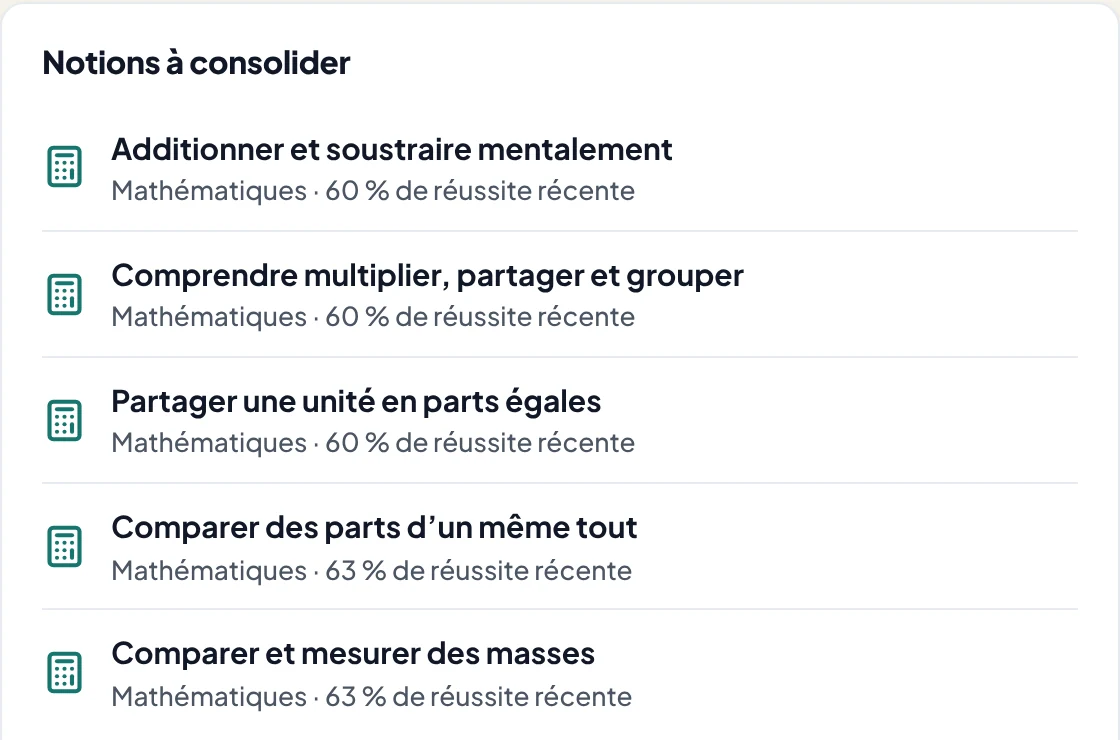
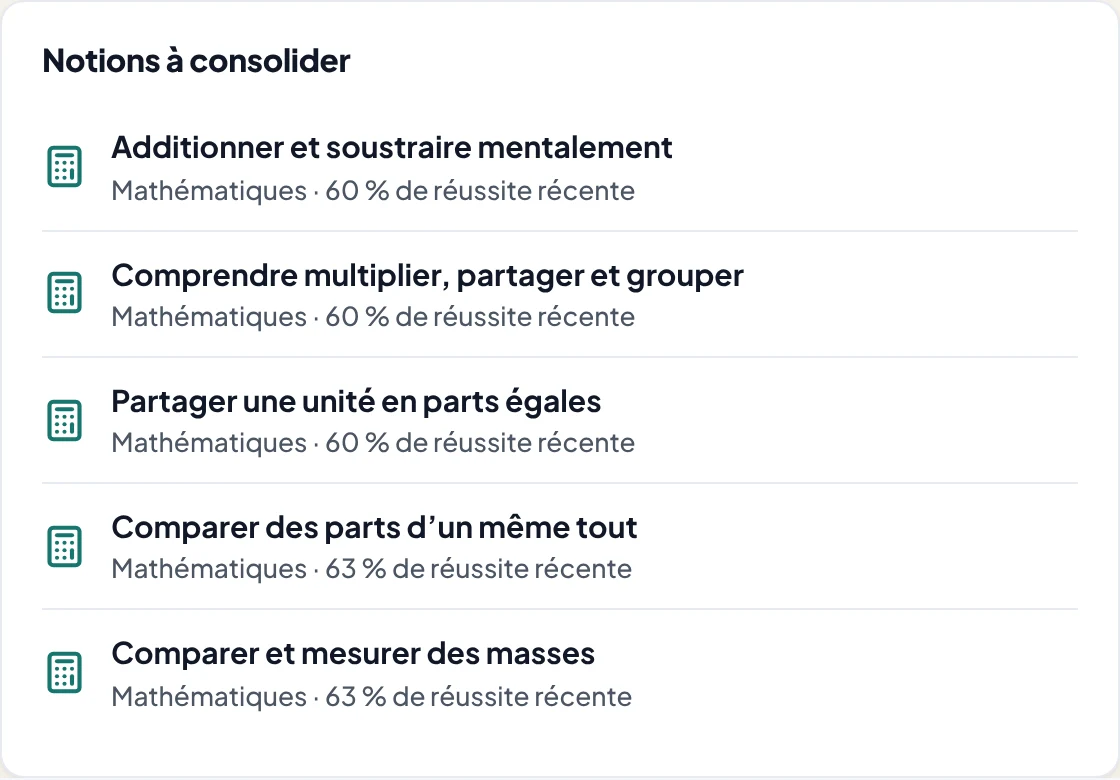
Espace parent : bilan de la semaine en famille, suggestions avec proposition de leçon en un clic, fiche enfant plus lisible, onglets avec icônes ; captures de l'accueil mises à jour
Claude-Session: https://claude.ai/code/session_0177XKGszcFA5Cb1ZMorPMqb

diff --git a/src/pages/parent/Dashboard.tsx b/src/pages/parent/Dashboard.tsx
@@ -1,11 +1,11 @@
 import { useMemo, useState } from 'react'
 import { Link, useNavigate } from 'react-router-dom'
-import { Plus, Play, Flame, Clock, Target, BookOpenCheck, TrendingUp, AlertCircle, Info, ArrowUp, ArrowDown } from 'lucide-react'
+import { Plus, Play, Flame, Clock, Target, BookOpenCheck, TrendingUp, AlertCircle, Info, ArrowUp, ArrowDown, CalendarCheck, RotateCcw } from 'lucide-react'
 import { useStore } from '../../state/store'
 import { Avatar, BarChart, Empty, LineChart, Modal } from '../../components/common'
 import { dayKey, addDays, fmtMin, fmtShort, diffDays, relDay } from '../../lib/dates'
 import { liveStreak, levelOf, periodTotals, weakSpots, weeksSeries, mastersTotals } from '../../lib/progress'
-import { BASE_AVATARS } from '../../lib/progress'
+import { BASE_AVATARS, uid } from '../../lib/progress'
 import { meta } from '../../lib/curriculum'
 import type { Child, LevelId } from '../../types'
 import { avatarLabel, avatarSrc } from '../../lib/avatars'
@@ -64,7 +64,7 @@ export function AddChildModal({ onClose }: { onClose: (id?: string) => void }) {
         <div className="field"><label>Avatar</label>
           <div className="wrap gap8">{BASE_AVATARS.map(a => <button type="button" key={a} className={`avpick ${a === av ? 'on' : ''}`} aria-label={`Avatar ${avatarLabel(a)}`} aria-pressed={a === av} onClick={() => setAv(a)}><img src={avatarSrc(a)} alt="" /><span>{avatarLabel(a)}</span></button>)}</div>
         </div>
-        <p className="tiny muted" style={{ margin: 0 }}>L’enfant entrera dans son espace en touchant son avatar. Vous pourrez ajouter un code secret dans ses Réglages si plusieurs enfants partagent l’appareil.</p>
+        <p className="tiny muted" style={{ margin: 0 }}>L’enfant entrera dans son espace en touchant son avatar. Votre code parent protège l’espace parent.</p>
         {err && <div className="err">{err}</div>}
         <button className="btn block" type="submit">Créer le profil</button>
       </form>
@@ -81,6 +81,58 @@ function insight(c: Child, today: string): { tone: 'green' | 'gold' | 'red' | 't
   const w = weakSpots(c)[0]
   if (w) return { tone: 'gold', text: `À consolider : ${w.title}.` }
   return { tone: 'green', text: 'Rythme régulier, continuez ainsi.' }
+}
+
+/** Bandeau « cette semaine en famille ». */
+function FamilyWeek({ kids, today }: { kids: Child[]; today: string }) {
+  const from = addDays(today, -6)
+  const tot = kids.map(k => periodTotals(k, from, today))
+  const ms = tot.reduce((a, t) => a + t.ms, 0), lessons = tot.reduce((a, t) => a + t.lessons, 0)
+  const accs = tot.filter(t => t.acc != null).map(t => t.acc as number)
+  const acc = accs.length ? accs.reduce((a, b) => a + b, 0) / accs.length : null
+  const active = tot.filter(t => t.days > 0).length
+  const items = [
+    { ic: <Clock size={18} />, l: 'Temps d’apprentissage', v: fmtMin(ms) },
+    { ic: <BookOpenCheck size={18} />, l: 'Leçons terminées', v: String(lessons) },
+    { ic: <Target size={18} />, l: 'Réussite au 1er essai', v: acc == null ? '–' : `${Math.round(acc * 100)} %` },
+    { ic: <CalendarCheck size={18} />, l: 'Enfants actifs', v: `${active} / ${kids.length}` },
+  ]
+  return (
+    <section className="p-week" aria-label="Cette semaine en famille">
+      <span className="p-week-t">7 derniers jours</span>
+      {items.map(i => <div key={i.l} className="p-wk"><span className="p-ic">{i.ic}</span><div><b>{i.v}</b><small>{i.l}</small></div></div>)}
+    </section>
+  )
+}
+
+/** Suggestions concrètes, une ligne par action utile. */
+function Suggestions({ kids, today }: { kids: Child[]; today: string }) {
+  const { mutateChild } = useStore()
+  const [done, setDone] = useState<string[]>([])
+  const rows: { key: string; kid: Child; icon: JSX.Element; tone: string; text: JSX.Element; action?: JSX.Element }[] = []
+  kids.forEach(k => {
+    const last = k.streak.last, idle = last ? diffDays(today, last) : null
+    if (!k.sessions.length) rows.push({ key: k.id + 'start', kid: k, icon: <Play size={18} />, tone: 'teal', text: <><b>{k.nickname}</b> n’a pas encore commencé. Une première leçon ensemble ?</> })
+    else if (idle != null && idle >= 3) rows.push({ key: k.id + 'idle', kid: k, icon: <CalendarCheck size={18} />, tone: 'gold', text: <><b>{k.nickname}</b> n’a pas appris depuis {idle} jours. Cinq minutes suffisent pour reprendre.</> })
+    const w = weakSpots(k)[0]
+    const assigned = w && k.assignments.some(a => a.lessonId === w.lessonId && !a.doneAt)
+    if (w) rows.push({ key: k.id + 'weak', kid: k, icon: <RotateCcw size={18} />, tone: 'gold', text: <><b>{k.nickname}</b> peut consolider « {w.title} » ({meta(w.subject).name}, {Math.round(w.acc * 100)} % de réussite).</>,
+      action: assigned || done.includes(k.id + 'weak') ? <span className="pill green">Proposée</span> : <button className="btn ghost sm" onClick={() => { mutateChild(k.id, c => { c.assignments.push({ id: uid(), lessonId: w.lessonId, at: new Date().toISOString() }) }); setDone(d => [...d, k.id + 'weak']) }}>Proposer la leçon</button> })
+    const st = liveStreak(k)
+    if (st >= 3) rows.push({ key: k.id + 'streak', kid: k, icon: <Flame size={18} />, tone: 'coral', text: <><b>{k.nickname}</b> a appris {st} jours de suite. Un mot d’encouragement fait toujours plaisir.</> })
+  })
+  return (
+    <section className="card">
+      <h3>Suggestions</h3>
+      {rows.length === 0 ? <p className="small muted">Rien à signaler pour le moment.</p> : rows.map(r => (
+        <div key={r.key} className="p-sug">
+          <span className={`p-ic ${r.tone}`}>{r.icon}</span>
+          <div className="grow small">{r.text}</div>
+          {r.action ?? <Link className="btn quiet sm" to={`/parent/enfant/${r.kid.id}`}>Voir</Link>}
+        </div>
+      ))}
+    </section>
+  )
 }
 
 export default function Dashboard() {
@@ -102,16 +154,18 @@ export default function Dashboard() {
 
   return (
     <div className="col gap20">
-      <div className="row wrap">
+      <div className="row wrap p-head">
         <div className="grow" style={{ minWidth: 260 }}>
+          <div className="p-date">{new Date().toLocaleDateString('fr-FR', { weekday: 'long', day: 'numeric', month: 'long' })}</div>
           <h1>Bonjour {account.name}</h1>
-          <p className="muted">Voici où en sont vos enfants. Les chiffres se calculent sur les séances terminées.</p>
+          <p className="muted">Voici où en sont vos enfants cette semaine.</p>
         </div>
         <button className="btn" onClick={() => setAdd(true)}><Plus size={18} /> Ajouter un enfant</button>
       </div>
+      {kids.length > 0 && <FamilyWeek kids={kids} today={today} />}
 
       {kids.length === 0 ? (
-        <div className="card"><Empty emoji="👧" title="Ajoutez votre premier enfant">Créez un profil avec un prénom, une classe et un code à 4 chiffres. Le suivi apparaît dès la première leçon.</Empty>
+        <div className="card"><Empty emoji="👧" title="Ajoutez votre premier enfant">Créez un profil avec un prénom, une classe et un avatar. Le suivi apparaît dès la première leçon.</Empty>
           <div className="center"><button className="btn" onClick={() => setAdd(true)}>Créer un profil</button></div></div>
       ) : (
         <>
@@ -128,6 +182,7 @@ export default function Dashboard() {
                     <div className="grow">
                       <h3 className="kid-name">{k.nickname}</h3>
                       <div className="small muted">{k.grade.toUpperCase()} · {levelOf(k.xp).name}</div>
+                      <div className="p-lvl" title={`Progression vers le niveau suivant`}><i style={{ width: `${levelOf(k.xp).pct}%` }} /></div>
                     </div>
                     <span className="kid-streak" title="Jours d’affilée avec au moins une leçon"><Flame size={16} /> {liveStreak(k)} j</span>
                   </div>
@@ -178,20 +233,7 @@ export default function Dashboard() {
             </section>
           </div>
 
-          <section className="card">
-            <h3>À retenir</h3>
-            {kids.map(k => {
-              const ws = weakSpots(k).slice(0, 2)
-              return (
-                <div key={k.id} className="weak">
-                  <Avatar emoji={k.avatar} frame={k.frame} size={36} />
-                  <div className="grow"><b>{k.nickname}</b>
-                    <div className="small muted">{ws.length ? `À consolider : ${ws.map(w => `${w.title} (${meta(w.subject).name})`).join(', ')}` : 'Aucune notion en difficulté repérée pour le moment.'}</div></div>
-                  <Link className="btn ghost sm" to={`/parent/enfant/${k.id}?tab=progression`}>Voir</Link>
-                </div>
-              )
-            })}
-          </section>
+          <Suggestions kids={kids} today={today} />
         </>
       )}
       <p className="tiny muted">EDUFUN suit la progression de l’enfant dans les leçons. Il ne s’agit ni d’une évaluation officielle ni d’une note scolaire.</p>

diff --git a/src/pages/parent/ChildDetail.tsx b/src/pages/parent/ChildDetail.tsx
@@ -1,6 +1,6 @@
 import { useEffect, useMemo, useState } from 'react'
 import { Link, Navigate, useNavigate, useParams, useSearchParams } from 'react-router-dom'
-import { ChevronLeft, Download, Trash2, Play } from 'lucide-react'
+import { ChevronLeft, Download, Flame, History, LayoutDashboard, MessageSquareText, Play, Settings2, Sparkles, Star, Trash2, TrendingUp, Trophy } from 'lucide-react'
 import { useStore } from '../../state/store'
 import { Avatar, BarChart, Delta, Empty, LineChart, Modal, Switch } from '../../components/common'
 import { addDays, dayKey, fmtDayLong, fmtMin, fmtShort, relDay } from '../../lib/dates'
@@ -53,7 +53,7 @@ function ClassJoin({ child }: { child: Child }) {
   )
 }
 
-const TABS = [['apercu', 'Aperçu'], ['progression', 'Progression'], ['activite', 'Activité'], ['reglages', 'Réglages']] as const
+const TABS = [['apercu', 'Aperçu', LayoutDashboard], ['progression', 'Progression', TrendingUp], ['activite', 'Activité', History], ['reglages', 'Réglages', Settings2]] as const
 
 export default function ChildDetail() {
   const { id = '' } = useParams()
@@ -71,16 +71,22 @@ export default function ChildDetail() {
   return (
     <div className="col gap20">
       <Link to="/parent" className="row small"><ChevronLeft size={18} /> Tableau de bord</Link>
-      <div className="row wrap">
-        <Avatar emoji={child.avatar} frame={child.frame} size={72} />
-        <div className="grow">
-          <h1>{child.nickname}</h1>
-          <div className="muted">{child.grade.toUpperCase()} · niveau {lv.name} · {child.xp} points · {totalStars(child)} étoiles · série de {liveStreak(child)} jour{liveStreak(child) > 1 ? 's' : ''}</div>
+      <section className="card p-id">
+        <Avatar emoji={child.avatar} frame={child.frame} size={76} />
+        <div className="grow" style={{ minWidth: 0 }}>
+          <div className="row" style={{ gap: 10, flexWrap: 'wrap' }}><h1>{child.nickname}</h1><span className="pill teal">{child.grade.toUpperCase()}</span></div>
+          <div className="p-id-lvl"><span className="small"><b>{lv.name}</b>{lv.nextName ? <span className="muted"> · {lv.next! - child.xp} points avant « {lv.nextName} »</span> : null}</span><div className="p-lvl big"><i style={{ width: `${lv.pct}%` }} /></div></div>
+          <div className="p-id-chips">
+            <span><Flame size={15} /> Série de {liveStreak(child)} jour{liveStreak(child) > 1 ? 's' : ''}</span>
+            <span><Star size={15} /> {totalStars(child)} étoiles</span>
+            <span><Trophy size={15} /> {child.badges.length} badges</span>
+            <span><Sparkles size={15} /> {child.xp} points</span>
+          </div>
         </div>
         <button className="btn" onClick={async () => { await enterChild(child.id); nav('/enfant') }}><Play size={18} /> Ouvrir son espace</button>
-      </div>
-      <div className="tabs" role="tablist">
-        {TABS.map(([k, l]) => <button key={k} role="tab" aria-selected={tab === k} className={tab === k ? 'on' : ''} onClick={() => setSp({ tab: k })}>{l}</button>)}
+      </section>
+      <div className="p-tabs" role="tablist">
+        {TABS.map(([k, l, I]) => <button key={k} role="tab" aria-selected={tab === k} className={tab === k ? 'on' : ''} onClick={() => setSp({ tab: k })}><I size={17} /> {l}</button>)}
       </div>
       {tab === 'apercu' && <Overview child={child} today={today} />}
       {tab === 'progression' && <Progression child={child} />}
@@ -113,7 +119,7 @@ function Overview({ child, today }: { child: Child; today: string }) {
     : `Sur les 7 derniers jours, ${child.nickname} a passé ${fmtMin(cur.ms)} à apprendre sur ${cur.days} jour${cur.days > 1 ? 's' : ''}, avec ${cur.acc == null ? 'aucune réponse enregistrée' : `${Math.round(cur.acc * 100)} % de réussite au premier essai`}.`
   return (
     <div className="col gap20">
-      <div className="note">{summary}</div>
+      <div className="p-summary"><span className="p-ic teal"><MessageSquareText size={18} /></span><p>{summary}</p></div>
       <div className="kpis">
         <div className="card kpi"><div className="l">Temps cette semaine</div><div className="v">{fmtMin(cur.ms)}</div><Delta now={cur.ms / 60000} before={prev.ms ? prev.ms / 60000 : null} unit=" min" /></div>
         <div className="card kpi"><div className="l">Leçons terminées</div><div className="v">{cur.lessons}</div><Delta now={cur.lessons} before={prev.lessons || null} /></div>
@@ -252,7 +258,7 @@ function Settings({ child, set, onDelete }: { child: Child; set: (fn: (c: Child)
         {subs.map(s => <div key={s} className="toggle"><span className="row gap8"><span style={{ color: SUBJECT_META[s].color }}><Ico e={SUBJECT_META[s].emoji} color="currentColor" /></span>{SUBJECT_META[s].name}</span>
           <Switch label={SUBJECT_META[s].name} on={!child.hiddenSubjects.includes(s)} onChange={v => set(c => { c.hiddenSubjects = v ? c.hiddenSubjects.filter(x => x !== s) : [...c.hiddenSubjects, s] })} /></div>)}
         <h3 className="mt24">Données</h3>
-        <p className="small muted mb8">Les données restent sur cet appareil. Vous pouvez les exporter ou les supprimer à tout moment.</p>
+        <p className="small muted mb8">Vous pouvez exporter ou supprimer les données de cet enfant à tout moment.</p>
         <div className="wrap"><button className="btn ghost sm" onClick={exportJson}><Download size={16} /> Exporter (JSON)</button>
           <button className="btn red sm" onClick={onDelete}><Trash2 size={16} /> Supprimer le profil</button></div>
       </section>

diff --git a/src/styles/app.css b/src/styles/app.css
@@ -870,3 +870,45 @@ html:is([data-theme=cm1],[data-theme=cm2]) :is(.k-wave,.k-fox,.k-me-av){animatio
 @media (max-width:900px){.kidshots{grid-template-columns:1fr}.kfeats{grid-template-columns:1fr 1fr}.phonewrap{order:-1}.phoneflip{width:250px}}
 @media (max-width:560px){.kfeats{grid-template-columns:1fr}}
 .phone::before{display:none}
+
+/* =====================================================================
+   Espace parent : retouches sobres
+   ===================================================================== */
+.p-date{font-size:.82rem;font-weight:700;color:var(--ink3);margin-bottom:2px}.p-date::first-letter{text-transform:uppercase}
+.p-head h1{margin:0 0 4px}
+.p-week{display:grid;grid-template-columns:repeat(4,minmax(0,1fr));align-items:center;gap:10px;background:#fff;border:1px solid var(--line);border-radius:var(--r);padding:14px 16px;box-shadow:var(--shadow)}
+.p-week-t{grid-column:1/-1;font-size:.72rem;font-weight:800;text-transform:uppercase;letter-spacing:.06em;color:var(--ink3)}
+.p-wk{display:flex;align-items:center;gap:12px;min-width:0;padding:4px 8px;border-left:1px solid var(--line2)}
+.p-wk:first-of-type{border-left:0}
+.p-wk b{display:block;font-size:1.35rem;line-height:1.15;color:var(--ink)}
+.p-wk small{display:block;font-size:.78rem;color:var(--ink2);font-weight:600;line-height:1.2}
+.p-ic{width:36px;height:36px;border-radius:10px;display:grid;place-items:center;flex:none;background:var(--teal-s);color:var(--teal)}
+.p-ic.gold{background:#FBF1DA;color:#946200}.p-ic.coral{background:#FCEBE3;color:#B4552B}.p-ic.teal{background:var(--teal-s);color:var(--teal)}
+.p-lvl{height:6px;border-radius:99px;background:var(--bg2);overflow:hidden;margin-top:6px;max-width:180px}
+.p-lvl i{display:block;height:100%;border-radius:99px;background:var(--teal)}
+.p-lvl.big{height:8px;max-width:360px}
+.p-sug{display:flex;align-items:center;gap:12px;padding:12px 0;border-top:1px solid var(--line2)}
+.p-sug:first-of-type{border-top:0}
+.p-id{display:flex;align-items:center;gap:18px;flex-wrap:wrap}
+.p-id h1{margin:0}
+.p-id-lvl{margin-top:6px}
+.p-id-chips{display:flex;flex-wrap:wrap;gap:8px;margin-top:12px}
+.p-id-chips span{display:inline-flex;align-items:center;gap:6px;font-size:.82rem;font-weight:700;color:var(--ink2);background:var(--bg2);padding:5px 10px;border-radius:99px}
+.p-id-chips svg{color:var(--teal)}
+.p-tabs{display:flex;gap:4px;padding:4px;background:#fff;border:1px solid var(--line);border-radius:12px;width:max-content;max-width:100%;overflow-x:auto}
+.p-tabs button{display:inline-flex;align-items:center;gap:8px;border:0;background:none;padding:9px 16px;border-radius:9px;font:inherit;font-weight:700;font-size:.92rem;color:var(--ink2);cursor:pointer;white-space:nowrap}
+.p-tabs button:hover{background:var(--bg2)}
+.p-tabs button.on{background:var(--teal);color:#fff}
+.p-summary{display:flex;gap:12px;align-items:flex-start;background:#fff;border:1px solid var(--line);border-left:4px solid var(--teal);border-radius:var(--r-sm);padding:14px 16px}
+.p-summary p{margin:4px 0 0;font-size:.95rem;color:var(--ink)}
+.kpi .l{display:flex;align-items:center;gap:6px}
+@media (max-width:900px){
+  .p-week{grid-template-columns:1fr 1fr;gap:12px}
+  .p-week-t{grid-column:1/-1;writing-mode:horizontal-tb;transform:none;border:0;padding:0}
+  .p-wk{border-left:0;padding:0}
+  .p-id{align-items:flex-start}
+  .p-id>.btn{width:100%}
+  .p-tabs{width:100%}.p-tabs button{flex:1;justify-content:center;padding:9px 8px;font-size:.85rem}
+  .p-tabs button svg{display:none}
+  .p-sug{flex-wrap:wrap}.p-sug .btn{margin-left:48px}
+}
